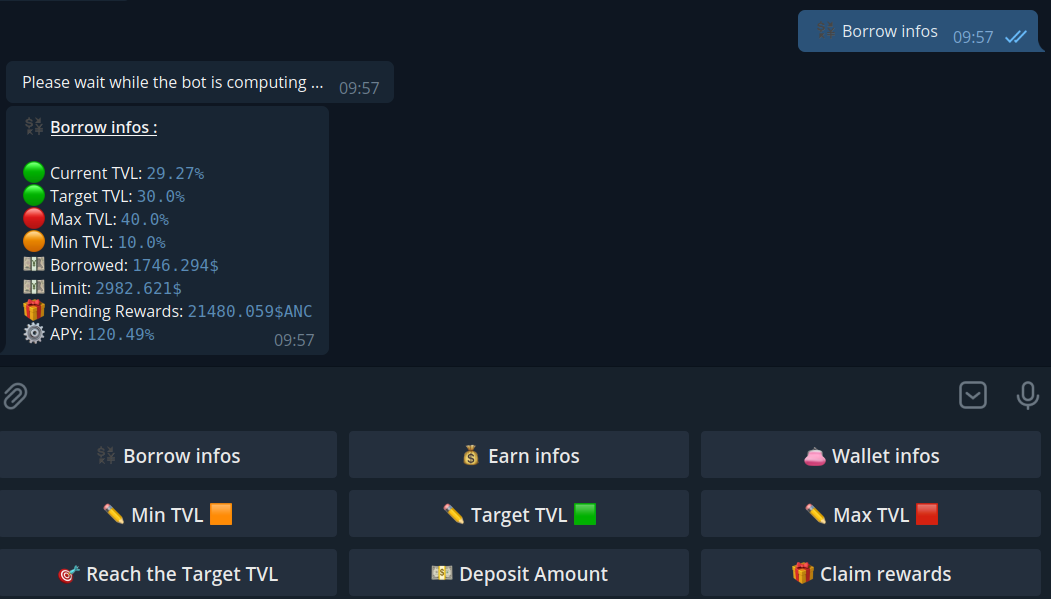
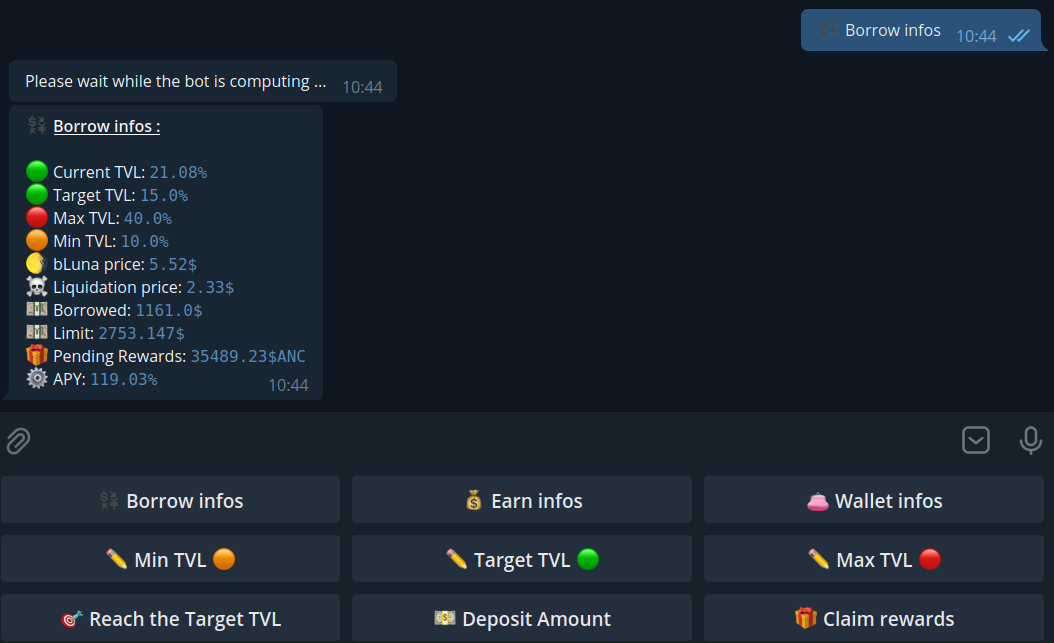
add bluna_price, liquidation_price and link to the transaction...

diff --git a/anchor.py b/anchor.py
@@ -34,17 +34,18 @@ class AnchorException(Exception):
 
 
 class Anchor:
-    async def get_config():
+    async def get_config(contract_address):
         try:
 
             query = {"config": {}}
             response = await TerraChain.chain.wasm.contract_query(
-                Config._address["mmMarket"],
+                contract_address,
                 query,
             )
             for val in response:
-                if ("terra" in response[val]):
-                    Config._address[val] = response[val]
+                if (isinstance(response[val], str)):
+                    if ("terra" in response[val]):
+                        Config._address[val] = response[val]
 
         except LCDResponseError as e:
             Config._log.exception(e)
@@ -71,7 +72,7 @@ class Anchor:
                 }
             }
             response = await TerraChain.chain.wasm.contract_query(
-                Config._address["mmMarket"],
+                Config._address["market_contract"],
                 query,
             )
             borrow_value = float(response["loan_amount"])
@@ -111,6 +112,44 @@ class Anchor:
 
         return borrow_limit
 
+    async def get_bluna_amount(wallet_address):
+        bluna_price = 0
+        try:
+            query = {"borrower": {"address": wallet_address}}
+            response = await TerraChain.chain.wasm.contract_query(
+                Config._address["mmCustody"],
+                query,
+            )
+            bluna_price = float(response["balance"])
+
+        except LCDResponseError as e:
+            Config._log.exception(e)
+            raise AnchorException(
+                inspect.currentframe().f_code.co_name,
+                e.errno if e.errno else -1,
+                e.message,
+            )
+
+        return bluna_price
+
+
+    async def get_bluna_price():
+        price = None
+        try:
+
+            query = {"price" : {"base": Config._address["collateral_token"], "quote": "uusd"}}
+            response = await TerraChain.chain.wasm.contract_query(Config._address["oracle_contract"], query)
+            price = float(response["rate"]) 
+
+            
+
+        except LCDResponseError as e:
+            Config._log.exception(e)
+            raise AnchorException(inspect.currentframe().f_code.co_name, e.errno if e.errno else -1, e.message)
+            
+
+        return price
+
     async def get_pending_rewards(wallet_address):
         pending_rewards = 0
         try:
@@ -121,7 +160,7 @@ class Anchor:
                 }
             }
             response = await TerraChain.chain.wasm.contract_query(
-                Config._address["mmMarket"],
+                Config._address["market_contract"],
                 query,
             )
             pending_rewards = float(response["pending_rewards"])
@@ -222,7 +261,7 @@ class Anchor:
             query = {"repay_stable": {}}
             return MsgExecuteContract(
                 AccAddress(wallet_address),
-                contract=Config._address["mmMarket"],
+                contract=Config._address["market_contract"],
                 execute_msg=query,
                 coins=Coins(uusd=amount_to_repay),
             )
@@ -246,7 +285,7 @@ class Anchor:
             }
             return MsgExecuteContract(
                 AccAddress(wallet_address),
-                contract=Config._address["mmMarket"],
+                contract=Config._address["market_contract"],
                 execute_msg=query,
             )
 
@@ -263,7 +302,7 @@ class Anchor:
             b64 = dict_to_b64({"redeem_stable": {}})
             msg = {
                 "send": {
-                    "contract": str(Config._address["mmMarket"]),
+                    "contract": str(Config._address["market_contract"]),
                     "amount": str(amount_to_withdraw),
                     "msg": b64,
                 }
@@ -287,7 +326,7 @@ class Anchor:
             query = {"deposit_stable": {}}
             return MsgExecuteContract(
                 AccAddress(wallet_address),
-                contract=Config._address["mmMarket"],
+                contract=Config._address["market_contract"],
                 execute_msg=query,
                 coins=Coins(uusd=amount_to_deposit),
             )
@@ -305,7 +344,7 @@ class Anchor:
             query = {"claim_rewards": {"to": wallet_address}}
             return MsgExecuteContract(
                 AccAddress(wallet_address),
-                contract=Config._address["mmMarket"],
+                contract=Config._address["market_contract"],
                 execute_msg=query,
             )
 
@@ -322,7 +361,7 @@ class Anchor:
         try:
             query = {"epoch_state": {}}
             response = await TerraChain.chain.wasm.contract_query(
-                Config._address["mmMarket"], query
+                Config._address["market_contract"], query
             )
             exchange_rate = float(response["exchange_rate"])
             balance = await Anchor.get_balance_on_earn(wallet_address)
@@ -386,7 +425,7 @@ class Anchor:
 
             query = {
                 "query": '{{\n  marketBalances: BankBalancesAddress(Address: "{}") {{\n    Result {{\n      Denom\n      Amount\n    }}\n  }}\n}}\n'.format(
-                    Config._address["mmMarket"]
+                    Config._address["market_contract"]
                 )
             }
             response = requests.post(Config._address["mantle_endpoint"], query)
@@ -404,7 +443,7 @@ class Anchor:
 
             query = {"state": {"block_height": await Anchor.get_block_height()}}
             response = await TerraChain.chain.wasm.contract_query(
-                Config._address["mmMarket"], query
+                Config._address["market_contract"], query
             )
 
             total_liabilities = response["total_liabilities"]
@@ -425,7 +464,7 @@ class Anchor:
 
             query = {"state": {}}
             response = await TerraChain.chain.wasm.contract_query(
-                Config._address["mmMarket"],
+                Config._address["market_contract"],
                 query,
             )
             borrow_apy = round((float(distribution_apy) - borrow_rate) * 100, 2)

diff --git a/start.py b/start.py
@@ -59,7 +59,9 @@ class Main:
 
     async def start(self):
         try:
-            await Anchor.get_config()
+            await Anchor.get_config(Config._address["mmCustody"])
+            await Anchor.get_config(Config._address["market_contract"])
+            await Anchor.get_config(Config._address["overseer_contract"])
             await self.check_if_enough_ust_for_fees()
             await asyncio.gather(
                 bot_telegram.start(),
@@ -92,6 +94,12 @@ class Main:
             borrow_apy = await Anchor.get_borrow_apy()
             borrow_value = await Anchor.get_borrow_value(wallet_address)
             borrow_limit = await Anchor.get_borrow_limit(wallet_address)
+            bluna_amount = await Anchor.get_bluna_amount(wallet_address)
+            bluna_price = round(await Anchor.get_bluna_price(), 2)
+            liquidation_price = round(
+                (borrow_value * 2) / bluna_amount,
+                2,
+            )
             if borrow_value != 0 and borrow_limit != 0:
                 current_tvl = await Anchor.get_current_tvl(
                     wallet_address, borrow_value, borrow_limit
@@ -111,6 +119,8 @@ class Main:
                 message += "🟢 Target TVL: <code>{}%</code>\n".format(Config._target_tvl)
                 message += "🔴 Max TVL: <code>{}%</code>\n".format(Config._max_tvl)
                 message += "🟠 Min TVL: <code>{}%</code>\n".format(Config._min_tvl)
+                message += "🌖 bLuna price: <code>{}$</code>\n".format(bluna_price)
+                message += "☠ Liquidation price: <code>{}$</code>\n".format(liquidation_price)
                 message += "💴 Borrowed: <code>{}$</code>\n".format(
                     Helper.to_human_value(borrow_value)
                 )
@@ -219,7 +229,9 @@ class Main:
                     amount_to_borrow = await Anchor.get_amount_to_borrow(
                         wallet_address, Config._target_tvl
                     )
-                    trxhash = await self.do_borrow_and_deposit(self._wallet, amount_to_borrow)
+                    trxhash = await self.do_borrow_and_deposit(
+                        self._wallet, amount_to_borrow
+                    )
             else:
                 raise AnchorException(
                     inspect.currentframe().f_code.co_name,
@@ -524,7 +536,7 @@ class Main:
             await self.handle_result(trxhash)
 
     async def claim_rewards(self, **kwargs):
-        trxhash = None    
+        trxhash = None
         try:
             await self.check_if_enough_ust_for_fees()
             amount_rewards = await Anchor.get_pending_rewards(
@@ -585,8 +597,6 @@ class Main:
         except Exception as e:
             Config._log.exception(e)
 
-
-
     async def handle_result(self, trxhash):
         try:
 
@@ -594,9 +604,10 @@ class Main:
                 await bot_telegram.send_message("🔴 Ended with errors.")
             else:
                 await bot_telegram.send_message(
-                    "🟢 Done [<a href='{}'>link</a>].".format(TerraChain.get_trx_url(trxhash))
+                    "🟢 Done [<a href='{}'>link</a>].".format(
+                        TerraChain.get_trx_url(trxhash)
+                    )
                 )
-
 
         except Exception as e:
             Config._log.exception(e)

diff --git a/config.py b/config.py
@@ -5,7 +5,7 @@ import base64
 
 
 class Config:
-    VERSION = "1.0.6"
+    VERSION = "1.1.0"
     _log = logging.getLogger("anchor_borrow")
     formatter = logging.Formatter(
         "%(asctime)s,%(msecs)d %(levelname)-8s [%(filename)s:%(lineno)d] %(message)s",
@@ -21,10 +21,6 @@ class Config:
     _mnemonic = base64.b64decode(os.environ.get("WALLET_MNEMONIC")).decode("utf-8")
     _telegram_token = os.environ.get("TELEGRAM_TOKEN", None)
     _telegram_chat_id = int(os.environ.get("TELEGRAM_CHAT_ID", 0))
-    _anchor_mmMarket = os.environ.get(
-        "ANCHOR_mmMarket",
-        "terra15dwd5mj8v59wpj0wvt233mf5efdff808c5tkal",
-    )
     _target_tvl = float(os.environ.get("TARGET_TVL", 35))
     _min_tvl = float(os.environ.get("MIN_TVL", 30))
     _max_tvl = float(os.environ.get("MAX_TVL", 40))
@@ -33,10 +29,10 @@ class Config:
     _minimum_ust_amount = int(os.environ.get("UST_MIN_AMOUNT_ALERT", 2))
 
     _address = {}
-    _address["mmMarket"] = os.environ.get(
-        "ANCHOR_mmMarket",
-        "terra15dwd5mj8v59wpj0wvt233mf5efdff808c5tkal",
-    )
+    _address["mmCustody"] = os.environ.get(
+        "ANCHOR_mmCustody",
+        "terra1ltnkx0mv7lf2rca9f8w740ashu93ujughy4s7p",
+    )    
     _address["mantle_endpoint"] = os.environ.get(
         "Mantle_endpoint",
         "https://tequila-mantle.anchorprotocol.com",

diff --git a/readme.md b/readme.md
@@ -12,7 +12,7 @@ WALLET_MNEMONIC=<BASE64_ENCODED_MNEMONIC>
 WALLET_NAME=Wallet#1
 CHAIN_ID=columbus-4
 CHAIN_URL=https://fcd.terra.dev
-ANCHOR_mmMarket=terra1sepfj7s0aeg5967uxnfk4thzlerrsktkpelm5s
+ANCHOR_mmCustody=terra1ptjp2vfjrwh0j0faj9r6katm640kgjxnwwq9kn
 Mantle_endpoint=https://mantle.anchorprotocol.com
 TARGET_TVL=35
 MAX_TVL=40
@@ -37,10 +37,10 @@ UST_MIN_AMOUNT_ALERT=10
 > - https://fcd.terra.dev ***mainnet***
 > - https://tequila-lcd.terra.dev ***tequila testnet***
 
-**ANCHOR_mmMarket**
-> Anchor mmMarket contract address to use :
-> - terra1sepfj7s0aeg5967uxnfk4thzlerrsktkpelm5s ***mainnet***
-> - terra15dwd5mj8v59wpj0wvt233mf5efdff808c5tkal ***tequila testnet***
+**ANCHOR_mmCustody**
+> Anchor mmCustody contract address to use :
+> - terra1ptjp2vfjrwh0j0faj9r6katm640kgjxnwwq9kn ***mainnet***
+> - terra1ltnkx0mv7lf2rca9f8w740ashu93ujughy4s7p ***tequila testnet***
 
 **Mantle_endpoint**
 > Mantle endpoint to get borrow APY :
@@ -91,6 +91,8 @@ then \
 - Target TVL
 - Max allowed TVL
 - Min allowed TVL
+- Current bLuna price
+- Liquidation price
 - Borrowed amount
 - Borrow Limit amount
 - Pending $ANC rewards
